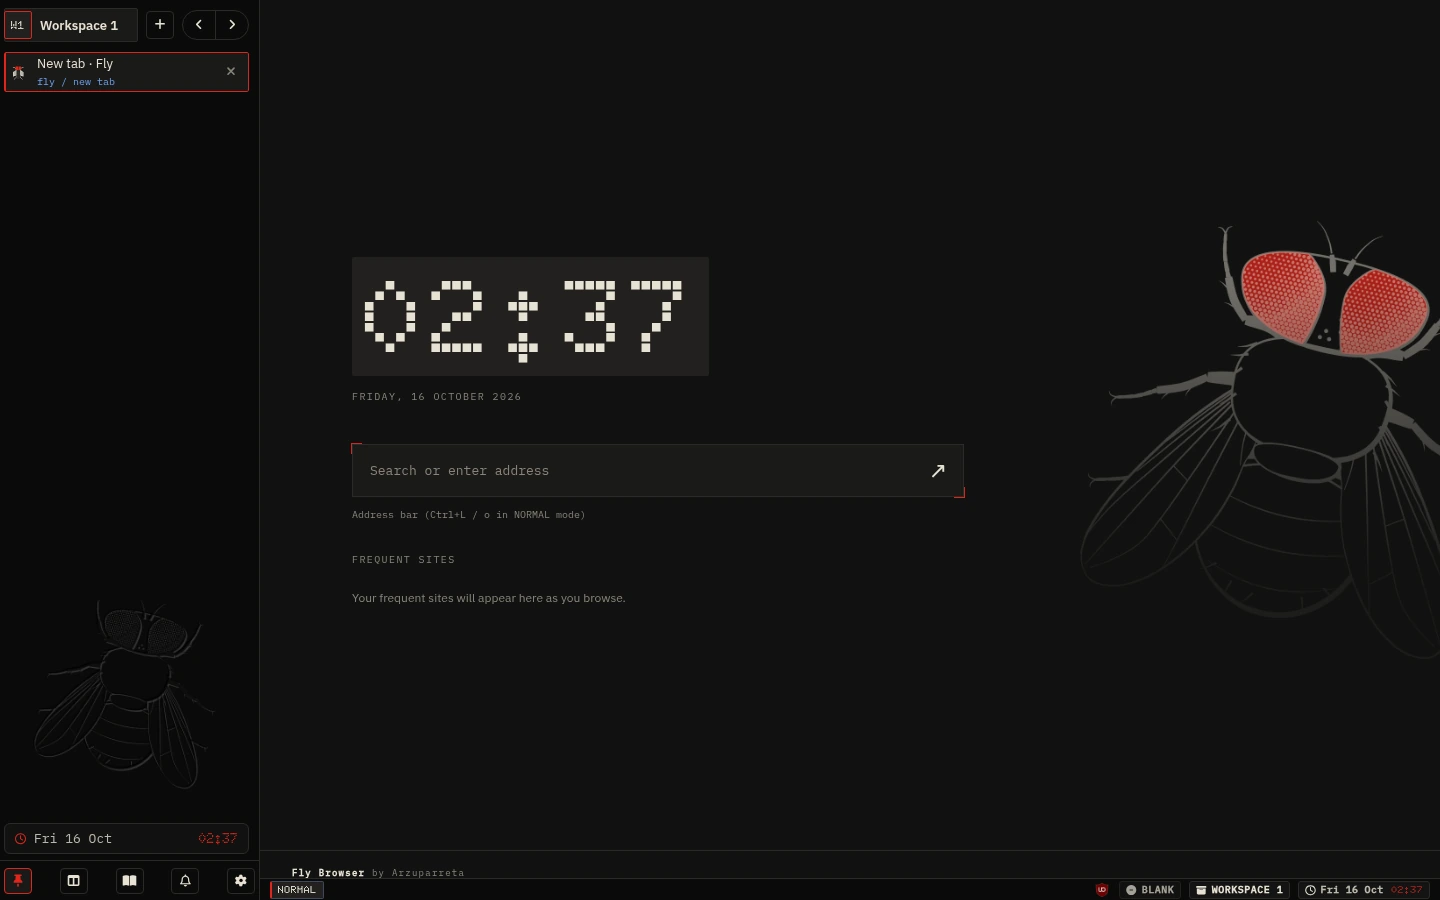
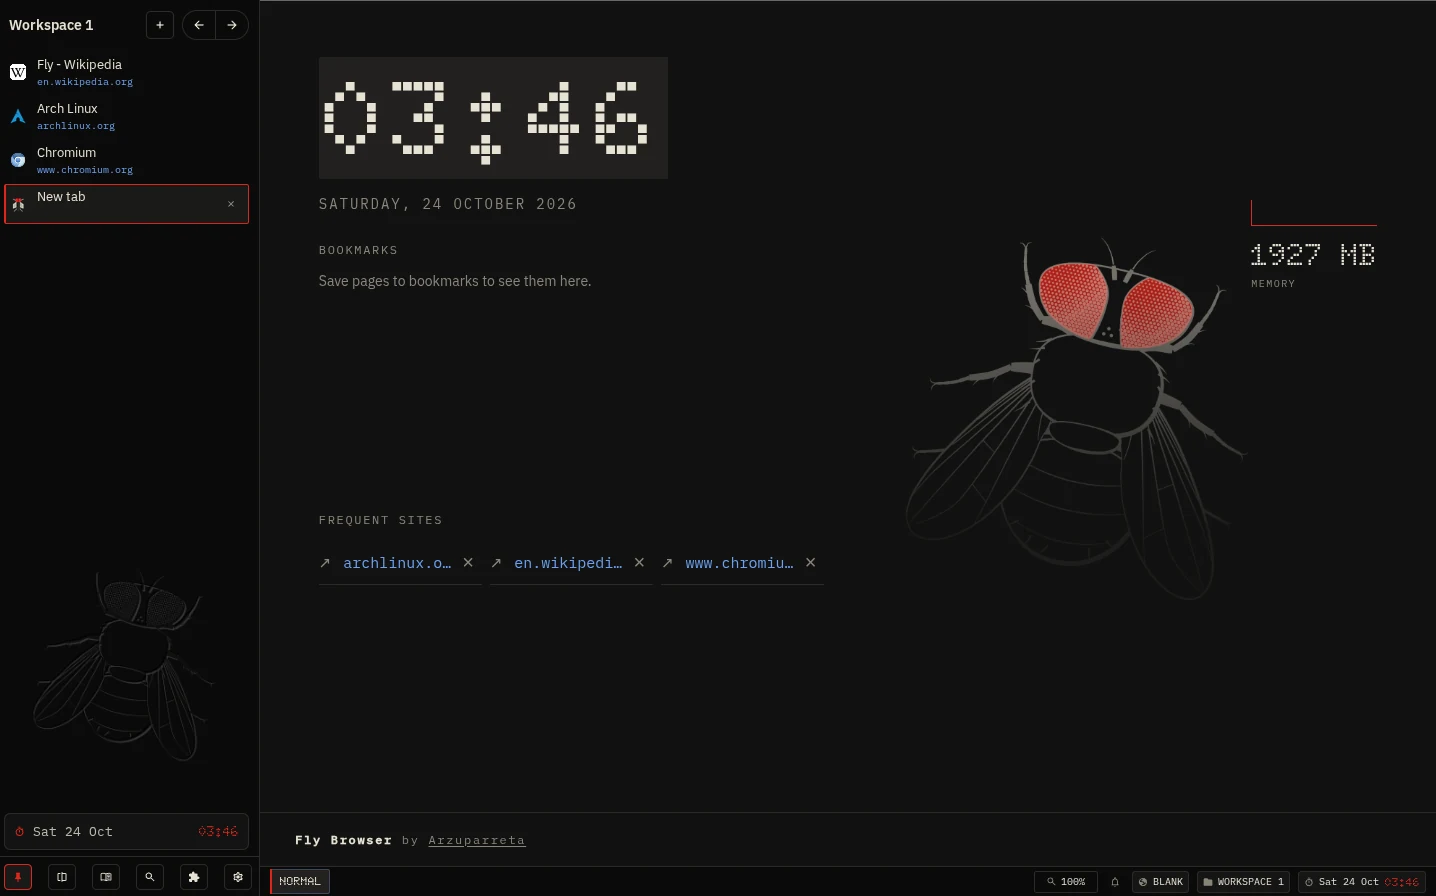
Cut per-frame work from the native sidebar slide and update screenshots
Fly buttons no longer run LabelButton's hover fade, which repainted the row
under the pointer on every frame of a slide. Starting a slide repaints only
the hovered row, the sidebar clock skips unchanged updates, and the sidebar
panel lays itself out again when a part is shown or hidden.

The documentation screenshots now show native Fly.

diff --git a/chromium/overlay/fly/test/workspace_browser_test.cc b/chromium/overlay/fly/test/workspace_browser_test.cc
@@ -732,6 +732,46 @@ IN_PROC_BROWSER_TEST_F(FlySidebarBrowserTest,
   EXPECT_EQ(0, content::EvalJs(page, "visibilityEvents.length"));
 }
 
+// Opening the sidebar over a row shows that row's hover look and close
+// button; the other rows keep theirs. Hover switches without a fade, so no
+// button repaints on every frame of the slide.
+IN_PROC_BROWSER_TEST_F(FlySidebarBrowserTest, SlideUpdatesOnlyTheHoveredRow) {
+  ASSERT_TRUE(ui_test_utils::NavigateToURL(
+      browser(), embedded_test_server()->GetURL("/title1.html")));
+  auto* first = Active(browser());
+  ASSERT_TRUE(AddTabAtIndex(1, embedded_test_server()->GetURL("/title2.html"),
+                            ui::PAGE_TRANSITION_TYPED));
+  auto* second = Active(browser());
+  auto& window = FlyWindowController::Get();
+  auto* list = window.tab_sidebar_for_testing();
+  ASSERT_TRUE(base::test::RunUntil([&] {
+    return list->row_for_testing(first) && list->row_for_testing(second);
+  }));
+  MoveToPage();
+  WaitForSidebarMotion();
+  auto* row = list->row_for_testing(first);
+  auto* select = static_cast<views::Button*>(row->children()[0].get());
+  auto* close = row->children()[2].get();
+  auto* other_close = list->row_for_testing(second)->children()[2].get();
+  EXPECT_FALSE(select->GetAnimateOnStateChange());
+  EXPECT_FALSE(close->GetVisible());
+  EXPECT_TRUE(other_close->GetVisible());
+  // The row reaches under the rail, so pointing at the rail opens the
+  // sidebar with the pointer already on the row.
+  const auto bounds = row->GetBoundsInScreen();
+  MovePointer(gfx::Point(bounds.x() + FlyScaled(18), bounds.CenterPoint().y()));
+  ASSERT_TRUE(base::test::RunUntil(
+      [&] { return window.sidebar_expanded_for_testing(); }));
+  EXPECT_TRUE(close->GetVisible());
+  EXPECT_TRUE(other_close->GetVisible());
+  WaitForSidebarMotion();
+  EXPECT_TRUE(close->GetVisible());
+  MoveToPage();
+  WaitForSidebarMotion();
+  EXPECT_FALSE(close->GetVisible());
+  EXPECT_TRUE(other_close->GetVisible());
+}
+
 // Electron's sidebar: the collapsed rail is the panel's left column. The
 // edge slides 224px and the panel slides back by the same amount on the
 // compositor, so rows and favicons never move.

diff --git a/chromium/overlay/fly/ui/sidebar_panel.cc b/chromium/overlay/fly/ui/sidebar_panel.cc
@@ -222,6 +222,10 @@ void SidebarPanel::Layout(PassKey) {
   }
 }
 
+void SidebarPanel::ChildVisibilityChanged(views::View* child) {
+  InvalidateLayout();
+}
+
 void SidebarPanel::OnPaintBackground(gfx::Canvas* canvas) {
   canvas->DrawColor(FlyRoleColor(FlyRole::kSidebarSurface));
   // Light mode lays paper grain over the sidebar colour.
@@ -259,6 +263,11 @@ SidebarClock::~SidebarClock() = default;
 void SidebarClock::SetClock(const std::u16string& text,
                             const std::u16string& date,
                             const std::u16string& time) {
+  // Every sidebar state change refreshes the clock; an unchanged one needs
+  // no layout.
+  if (GetText() == text && date_->GetText() == date &&
+      time_->GetText() == time)
+    return;
   if (GetText() != text)
     SetText(text);
   label()->SetVisible(false);

diff --git a/chromium/overlay/fly/ui/tab_sidebar.cc b/chromium/overlay/fly/ui/tab_sidebar.cc
@@ -294,6 +294,7 @@ class TabRowView : public views::View {
   views::Button* audio() { return audio_; }
   RowBadge* audio_badge() { return audio_; }
   const RowState& state() const { return state_; }
+  bool hovered() const { return hovered_; }
   void SetState(const RowState& state) {
     state_ = state;
     pin_->SetVisible(state.pinned);
@@ -793,8 +794,12 @@ void TabSidebar::SetRail(bool rail) {
   if (rail_ == rail)
     return;
   rail_ = rail;
+  // Only the hovered row looks different on the rail (no hover tint, no
+  // close button). Repainting every row would delay the slide's first frame.
   for (views::View* child : rows_->children()) {
     auto* row = static_cast<TabRowView*>(child);
+    if (!row->hovered())
+      continue;
     row->UpdateClose();
     row->SchedulePaint();
   }

diff --git a/chromium/overlay/fly/ui/fly_theme.cc b/chromium/overlay/fly/ui/fly_theme.cc
@@ -286,6 +286,10 @@ FlyButton::FlyButton(PressedCallback callback,
   SetInstallFocusRingOnFocus(false);
   views::InkDrop::Get(this)->SetMode(views::InkDropHost::InkDropMode::OFF);
   SetHasInkDropActionOnClick(false);
+  // The hover look switches with the state (PaintButtonContents), so
+  // LabelButton's hover fade would only repaint an unchanged button on every
+  // frame for 170ms, and force a commit on each frame of a sidebar slide.
+  SetAnimateOnStateChange(false);
   label()->SetFontList(FlyFont(face_, size_, weight_));
   label()->SetElideBehavior(gfx::ELIDE_TAIL);
   // Rows and badges paint over translucent overlays and scroll layers.

diff --git a/chromium/overlay/fly/ui/sidebar_panel.h b/chromium/overlay/fly/ui/sidebar_panel.h
@@ -79,6 +79,9 @@ class SidebarPanel : public views::View {
   gfx::Size CalculatePreferredSize(
       const views::SizeBounds& available) const override;
   void Layout(PassKey) override;
+  // Layout() skips hidden parts (window controls, workspaces), so showing or
+  // hiding one lays the panel out again.
+  void ChildVisibilityChanged(views::View* child) override;
   void OnPaintBackground(gfx::Canvas* canvas) override;
   void OnThemeChanged() override;
 

diff --git a/docs/performance-motion.md b/docs/performance-motion.md
@@ -42,6 +42,51 @@ event cannot close it while the pointer is over it.
 interface, the reader and What's New, and dashboard navigation scrolls
 immediately. Websites keep their own motion.
 
+## Native sidebar
+
+Native Fly keeps the same geometry, duration and curve. The edge and the
+panel are Views layers whose transforms animate in opposite directions, and
+the shadow and the state-specific details fade with them
+(`FlyWindowController::ApplySidebarMotion`).
+
+A page animates on its renderer's compositor thread, which is why the
+Electron sidebar kept moving while its page was busy. Chromium's own
+interface has no such thread: its compositor runs on the browser's main
+thread, the same thread that handles input, tabs and messages from every
+page. Each frame of the slide needs that thread. Chromium ticks the
+animation and commits the layer tree on every frame, and anything that
+paints during the slide adds painting and GPU raster to the same frames.
+On a weak CPU, any other work on that thread during the slide shows up
+as a skipped frame.
+
+Two rules keep that work to the minimum Chromium needs:
+
+- Fly buttons switch their hover look immediately. Views' default 170 ms
+  hover fade repainted the button under the pointer on every frame of a
+  slide without changing its pixels.
+- Starting a slide repaints only the row under the pointer, the only row
+  whose look differs between the rail and the expanded sidebar.
+
+The first opening after Fly starts rasterises the expanded-only details for
+the first time, and on the machine below missed about 50 ms of frames.
+Later openings reuse those tiles.
+
+Measured on the machine below with a development build (DCHECKs on),
+30 tabs, the sidebar opened and closed 10 times with the real X11 pointer,
+recorded with Chromium tracing, per transition:
+
+| | Before | After |
+| --- | ---: | ---: |
+| Frames presented in 220 ms at 144 Hz | 33 | 33 |
+| Buttons repainted | 25 | 1 |
+| GPU raster tasks | 27.5 (13.3 ms) | 3 (4.8 ms) |
+| Main-thread layer tree commits | 34 | 34 |
+
+This machine already presented every frame before the change, also with
+the browser limited to one core (`taskset -c 0,8`) and with
+`--disable-gpu`. The change removes work from each frame; it was not
+measured on a slower CPU or GPU.
+
 ## Other changes
 
 - Download progress fills animate `scaleX` instead of `width`.

diff --git a/docs/guide/navigation.md b/docs/guide/navigation.md
@@ -32,7 +32,7 @@ Press **Ctrl + L** at any time to open the floating, high-contrast address overl
 
 ## DuckDuckGo Bang Redirection
 
-![Preferences General section with address bar aliases and calculator](/screenshots/preferences-5.webp)
+![Preferences General section with search aliases](/screenshots/preferences-5.webp)
 
 Fly supports over 13,500 DuckDuckGo bangs directly from the floating address bar. Bangs route queries directly to the target website:
 
